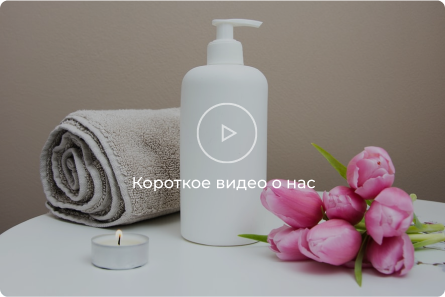
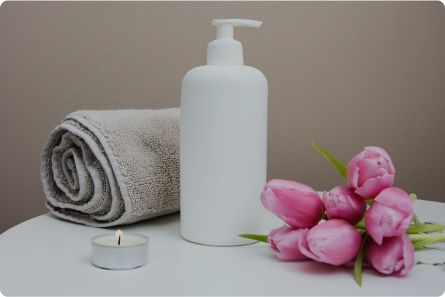
added about

diff --git a/index.html b/index.html
@@ -15,7 +15,7 @@
     <div class="wrapper">
 
 		<header class="header">
-			<div class="container">
+			<div class="container header__container">
 
 				<!-- #mobile-menu-btn для обращения к кнопке из JS -->
 				<!--
@@ -86,37 +86,27 @@
 		<main class="main">
 			
 			<!-- О салоне -->
-			<section class="section">
-				<div class="container">
+			<section id="about" class="section">
+				<div class="container section__container">
 
 					<div class="section__header">
-						<h2 class="section__title">Title</h2>
-
-						<div class="section__actions">
-							<button></button>
-						</div>
+						<p class="section__title">О салоне</h2>
 					</div>
 
-					<div class="section__inner">
-						<div class="row">
-							<div class="col">
-								<div class="popular-service">
-								...
-								</div>
-							</div>
-
-							<div class="col">
-								<div class="popular-service">
-								...
-								</div>
-							</div>
-
-							<div class="col">
-								<div class="popular-service">
-								...
-								</div>
-							</div>
+					<div class="about-inner section__inner">
+						
+						<div class="about-inner__text">
+							<p class="about-inner__subtitle">Мир красоты - это уютный салон в самом центре города. Здесь работают профессиональные визажисты, стилисты и мастера татуажа</p>
+							<p class="about-inner__description">Красота и хороший уход никогда не выходят из моды. Мы приглашаем Вас в место, где гармония обретает форму, а внешность становится отражением внутреннего мира. Новая жизнь начинается с небольших изменений. Мы помогаем нашим клиентам воплотить их индивидуальность во внешнем облике. Мы создаем стиль – вместе с Вами и для Вас.</p>						
+							<a href="#" class="about-inner__link">Развернуть</a>
 						</div>
+
+						<button type="button" class="about-inner__video">
+							<div class="about-inner__video-overlay"></div>
+							<img class="about-inner__video-img" src="./images/video-preview.png" alt="video"></img>
+						</button>
+
+
 					</div>
 
 				</div>
@@ -248,9 +238,7 @@
 				<div class="about">
 					<div class="about-text">
 						<p class="about-text-header">О салоне</p>
-						<p class="about-text-text">Мир красоты - это уютный салон в самом центре города. Здесь работают профессиональные визажисты, стилисты и мастера татуажа</p>
-						<p class="about-text-description">Красота и хороший уход никогда не выходят из моды. Мы приглашаем Вас в место, где гармония обретает форму, а внешность становится отражением внутреннего мира. Новая жизнь начинается с небольших изменений. Мы помогаем нашим клиентам воплотить их индивидуальность во внешнем облике. Мы создаем стиль – вместе с Вами и для Вас.</p>						
-						<a href="#">Развернуть</a>
+
 					</div>
 					<div class="video-preview">
 						<img src="./images/video-preview.png" alt="video-preview">
@@ -490,21 +478,22 @@
         </main>
 
         <footer class="footer">
-            <div class="container">
+            <div class="container footer__container">
                 				
 				<div class="copyright">
-					<p>© 2020 «Море красоты»</p>
-					<a href="#">Политика конфиденциальности</a>
+					<p class="copyright__text">© 2020 «Море красоты»</p>
+					<a href="#" class="copyright__link">Политика конфиденциальности</a>
 				</div>
 				
-				<div class="footer-navigation">
-					<ul>
-						<li><a href="#">Услуги и цены</a></li>
-						<li><a href="#">Мастера</a></li>
-						<li><a href="#">Наши работы</a></li>
-						<li><a href="#">Контакты</a></li>
-					   </ul>
-				</div>
+				<nav class="navigation footer__nav">
+					<ul class="navigation__list">
+						<li class="navigation__item"><a href="#price" class="navigation__link">Услуги и цены</a></li>
+						<li class="navigation__item"><a href="#masters" class="navigation__link">Мастера</a></li>
+						<li class="navigation__item"><a href="#portfolio" class="navigation__link">Наши работы</a></li>
+						<li class="navigation__item"><a href="#about" class="navigation__link">О нас</a></li>
+						<li class="navigation__item"><a href="#contacts" class="navigation__link">Контакты</a></li>
+					</ul>
+				</nav>
 				
             </div>
         </footer>

diff --git a/style.css b/style.css
@@ -46,7 +46,7 @@ a {
 	background-size: auto contain;
 }
 
-.header .container {
+.header__container {
     position: relative;
     padding: 30px 0 136px;
 }
@@ -55,10 +55,7 @@ a {
 	display: flex;
 	justify-content: space-between;
     margin-bottom: 120px;
-    /*
-    max-height: 45px;
-    align-items: baseline;
-    */
+
 }
 
 .logo {
@@ -239,10 +236,142 @@ a {
     flex: 1;
 }
 
-.main .container {
-    position: relative;
-    padding: 30px 0 0;
+.section {
+
 }
+
+.section__container {
+    position: relative;
+    padding: 100px 15px 0;
+}
+
+.section__header {
+
+}
+
+.section__title {
+	font-size: 48px;
+    font-weight: 700;
+	line-height: 59px;
+	margin-block-start: 0px;
+	margin-block-end: 32px;
+}
+
+.section__inner {
+    position: relative;  
+}
+
+.about-inner {
+
+}
+
+.about-inner__text {
+	max-width: 540px;
+    position: relative;
+}
+
+.about-inner__subtitle {
+	font-size: 20px;
+    font-weight: 400;
+	line-height: 32px;
+    margin-block-start: 0px;
+	margin-block-end: 16px;
+}
+
+.about-inner__description {
+	font-size: 16px;
+    font-weight: 400;
+	line-height: 26px;
+	margin-block-start: 0px;
+	margin-block-end: 16px;
+}
+
+.about-inner__link {
+	text-decoration-line: none;
+	color: #278AFF;
+}
+
+.about-inner__video {
+    border-radius: 8px;
+    overflow: hidden;
+	position: absolute;
+ 	right: 0px;
+	bottom: 6px;
+    border: none;
+    outline: 0;
+    cursor: pointer;
+    object-fit: cover;
+    padding: 0;
+}
+
+.about-inner__video:before {
+    content: '';
+    position: absolute;
+    width: 60px;
+    height: 60px;
+    top: 100px;
+    left: 50%;
+    transform: translateX(-50%);
+    background: url('./images/play-icon.svg') no-repeat center;
+    z-index: 3;
+    transition: 0.15s;
+}
+
+.about-inner__video:hover::before {
+    transform: scale(1.1) translateX(-45%);    
+}
+
+.about-inner__video-overlay {
+    background: #000;
+    opacity: 0.2;
+    position: absolute;
+    left: 0;
+    right: 0;
+    top: 0;
+    bottom: 0;
+    z-index: 2;
+}
+
+.about-inner__video-overlay:after {
+    content: 'Короткое видео о нас';
+    font-size: 16px;
+    line-height: 26px;
+    font-weight: 500;
+    position: absolute;
+    text-align: center;
+    z-index: 3;
+    top: 168px;
+    left: 0;
+    right: 0;
+    color: #fff;
+}
+
+.about-inner__video-img {
+    min-width: 297px;
+    max-width: 445px;
+    width: 100%;
+    height: 297px;
+    display: block;
+}
+
+
+
+
+
+
+
+
+
+
+
+
+
+
+
+
+
+
+
 
 /* ------ Footer ------- */
 
@@ -250,4 +379,26 @@ a {
 	flex: 0;
 }
 
+.footer__container {
+    position: relative;
+    padding: 20px 0 20px;
+	display: flex;
+	justify-content: space-between;
+    font-size: 12px;
+    font-weight: 400;
+    line-height: 15px;
+	align-items: center;
+}
 
+.copyright {
+
+}
+
+.copyright__text {
+
+}
+
+.copyright__link {
+	text-decoration-line: underline;
+	color: #278AFF;
+}
